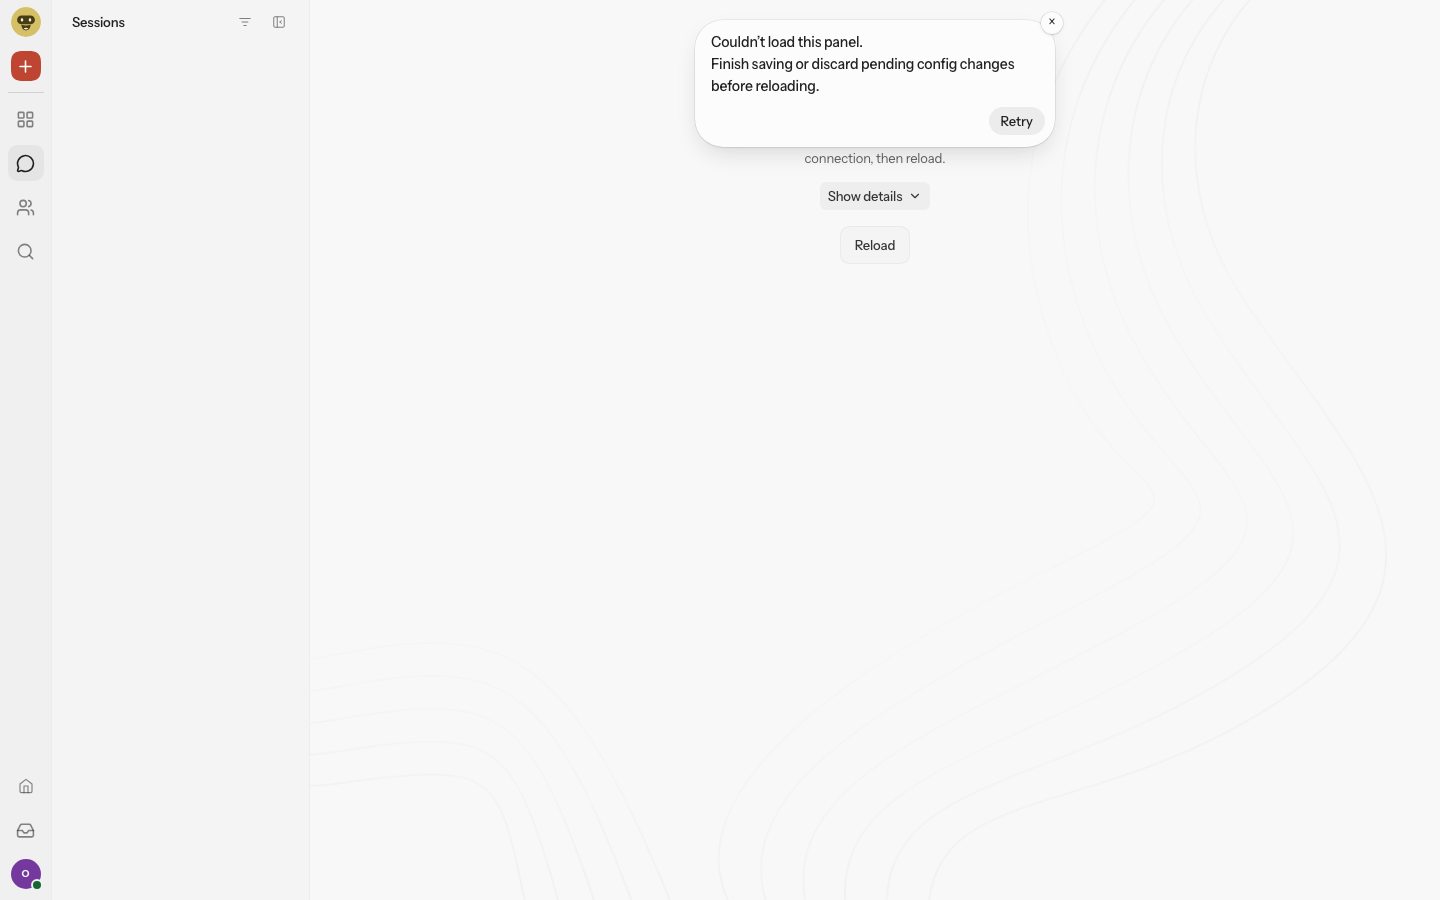
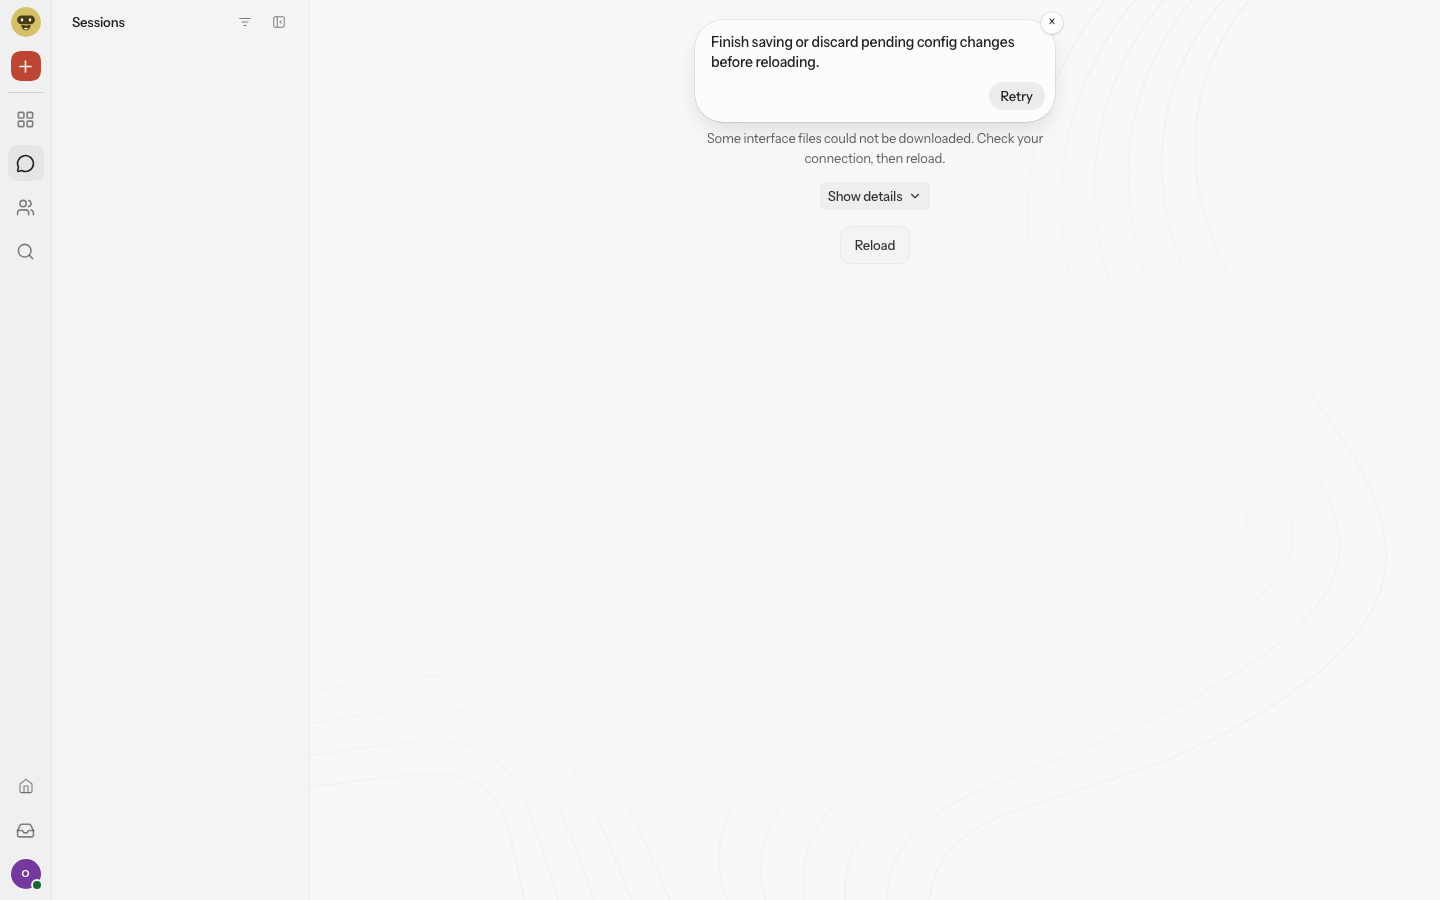
docs: refresh retired toast follow-up evidence

Changed region(s): [[0.5, 0.0311, 0.7188, 0.1556]]

diff --git a/README.md b/README.md
@@ -1,12 +1,39 @@
-# Real Control UI evidence for issue194730
+# Retired-toast explanation: reproducible proof
 
-Before: upstream `94d45c8d5144dacde3e76ef1bab8046e9523b66b` production UI.
-After: `7ac8a2785ad1ba513700a9039bb87b8e67ac6e81` (same production bytes as the independently reviewed final patch).
[1 lines of base64/hex data omitted]
 
-Both images are actual Chromium screenshots of the built Control UI at1440x900. Synthetic config and Gateway RPC only; the static HTTP handler and retired assets are real. No user data, credentials, private logs, database or fabricated UI is included. Parent and implementing worker inspected both PNGs.
+The exact recorded CI merge is `1dc75172af7d913defc6c693452c1cec2680ee6d`, first parent `c61a7c0cf6b72f9c35ad8acdc432e132f4d86a50`. With these Git objects locally available and a caller-owned external/secure proof root, reproduce the source pairing without changing the working branch:
 
-![Before: missing reload explanation](before.png)
+```sh
+git diff 7ac8a2785ad1ba513700a9039bb87b8e67ac6e81 0c729cfb81e6cbf0bfe810e1a86d1ba06442563b --binary > "$PROOF_ROOT/candidate.patch"
+git worktree add --detach "$PROOF_ROOT/merge" 1dc75172af7d913defc6c693452c1cec2680ee6d
+git -C "$PROOF_ROOT/merge" apply "$PROOF_ROOT/candidate.patch"
+pnpm --dir "$PROOF_ROOT/merge" install --frozen-lockfile --store-dir "$PROOF_ROOT/store"
+pnpm --dir "$PROOF_ROOT/merge" ui:check-performance:base c61a7c0cf6b72f9c35ad8acdc432e132f4d86a50
+```
 
-![After: save or discard explanation retained](after.png)
+The complete comparison returned exit0 with existing budgets and variance unchanged. Exact sanitized output line:
 
-See [results](results.md) for the exact scenario and limits.
+```text
+  largest ordinary JS: assets/control-ui-boot-shared-DiTGFyXK.js, 551.1 KiB gzip (limit: 551.3 KiB)
+```
+
+The checker JSON measured normalized largest JS564369 B; fixed ceiling564484 B; immutable base564565 B and64 B variance. The report-only JSON is supplemental measurement; the complete comparator exit0 is the enforcement proof.
+
+From the follow-up checkout, use the supported Node runner and task-local browser/temp configuration:
+
+```sh
+OPENCLAW_VITEST_RUNTIME=node pnpm test ui/src/lib/toast-host.loading.test.ts ui/src/lib/toast-host.loading.browser.test.ts ui/src/lib/toast.browser.test.ts --maxWorkers=1
+OPENCLAW_VITEST_RUNTIME=node OPENCLAW_CAPTURE_UI_PROOF=1 OPENCLAW_UI_E2E_ARTIFACT_DIR="$PROOF_ROOT/media" node scripts/run-vitest.mjs run --config test/vitest/vitest.ui-e2e.config.ts --configLoader runner ui/src/e2e/control-ui-stale-build-reload.e2e.test.ts -t 'dirty config: true' --maxWorkers=1
+```
+
[1 lines of base64/hex data omitted]
+
+Inherited ratchet failure is retained, not waived or called green:
+
+```text
+Test lines: 6571160; ceiling: 6571095; over by: 65; net delta: 0. Tree is over the ceiling; this change does not add test lines.
+Test lines: 6571243; ceiling: 6571178; over by: 65; net delta: +83.
+```
+
+The first is clean CIbase, whose zero-growth case is permitted; the second is the candidate merge with own83 growth/grant and still exit1. Existing CSS/document warnings remain. Remote CI was not rerun by this worker. No performance ceiling/shared scalar/allowance change, local autoreview or external publication is claimed.
